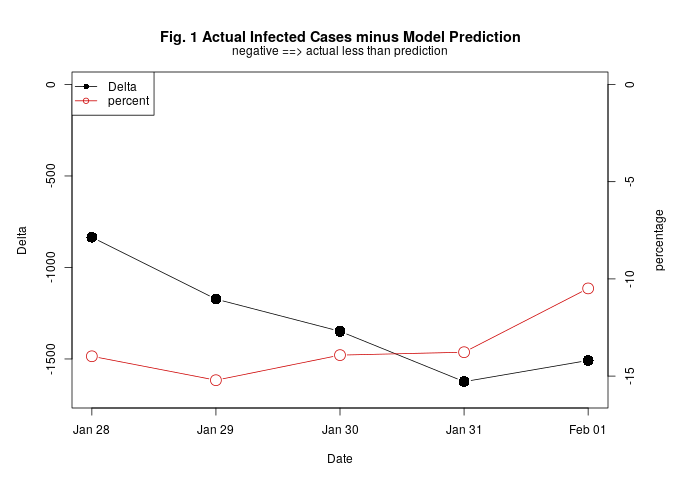
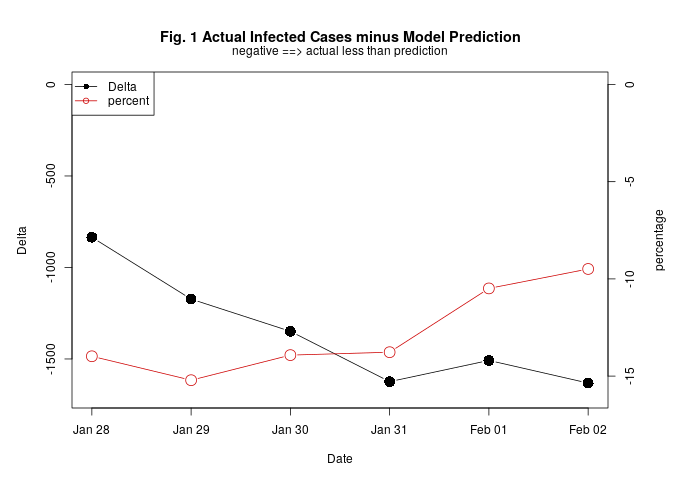
update

diff --git a/README.md b/README.md
@@ -17,6 +17,7 @@ It's way too early to predict the peak level and its timing, but things don't lo
 | 2020-01-30 |	9,692 |	11,041 |	-1,349 |	-13.92 |
 | 2020-01-31 |	11,791 |	13,415 |	-1,624 |	-13.77 |
 | 2020-02-01 |	14,380 |	15,888 |	-1,508 |	-10.49 |
+| 2020-02-02 |	17,205 |	18,837 |	-1,632 |	-9.49 |
 
 <p align="center"> 
 <img src="actual-vs-predict.png">
